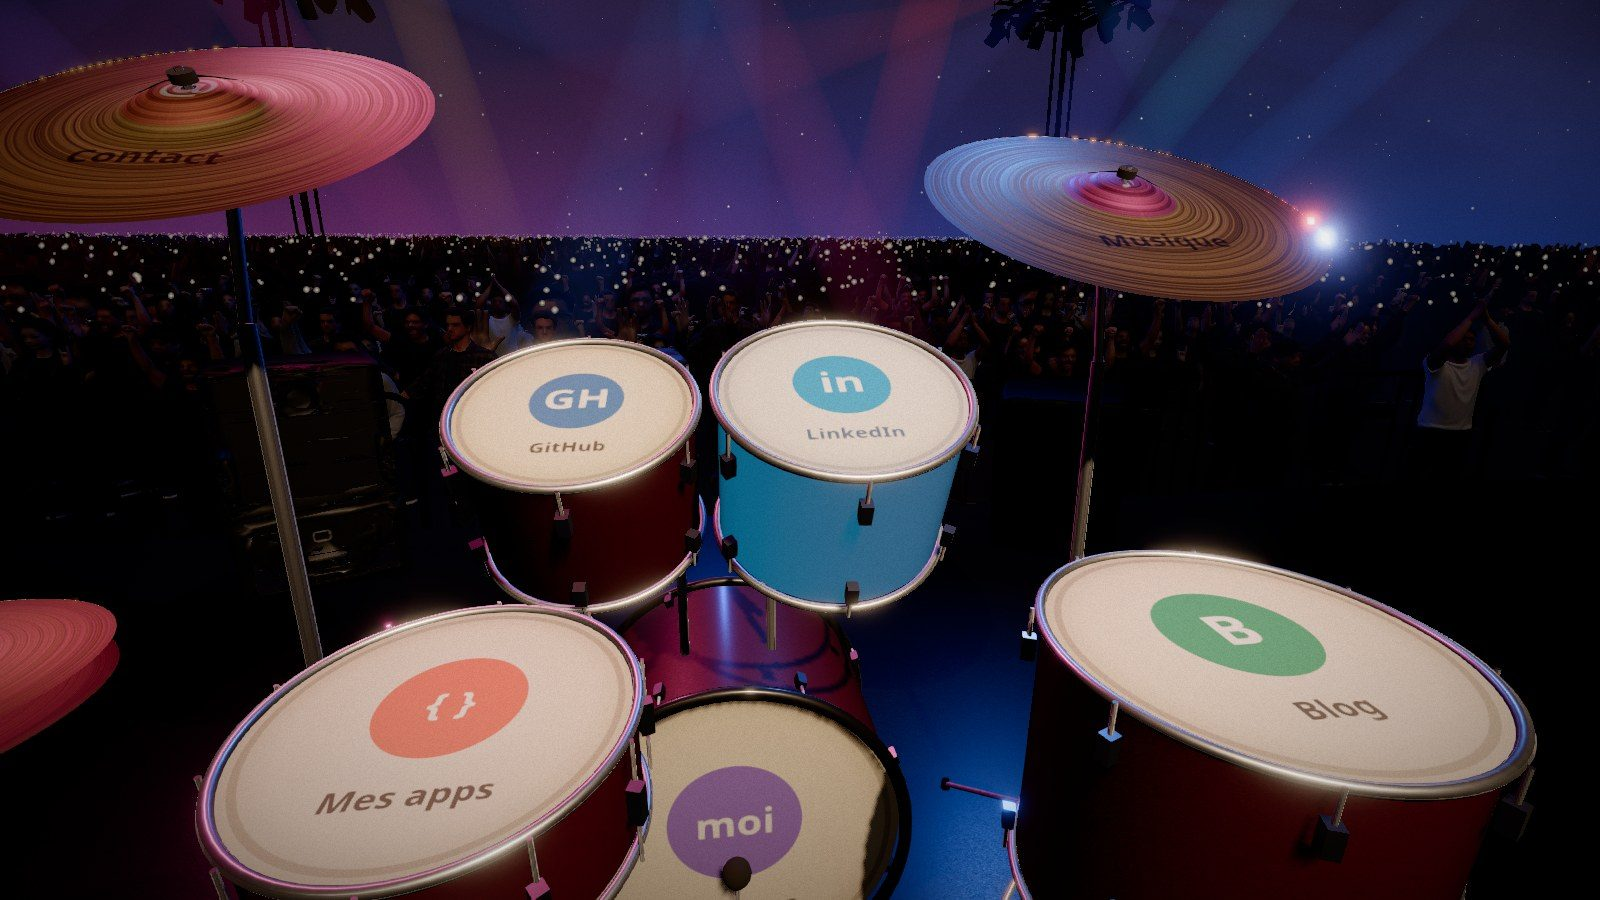
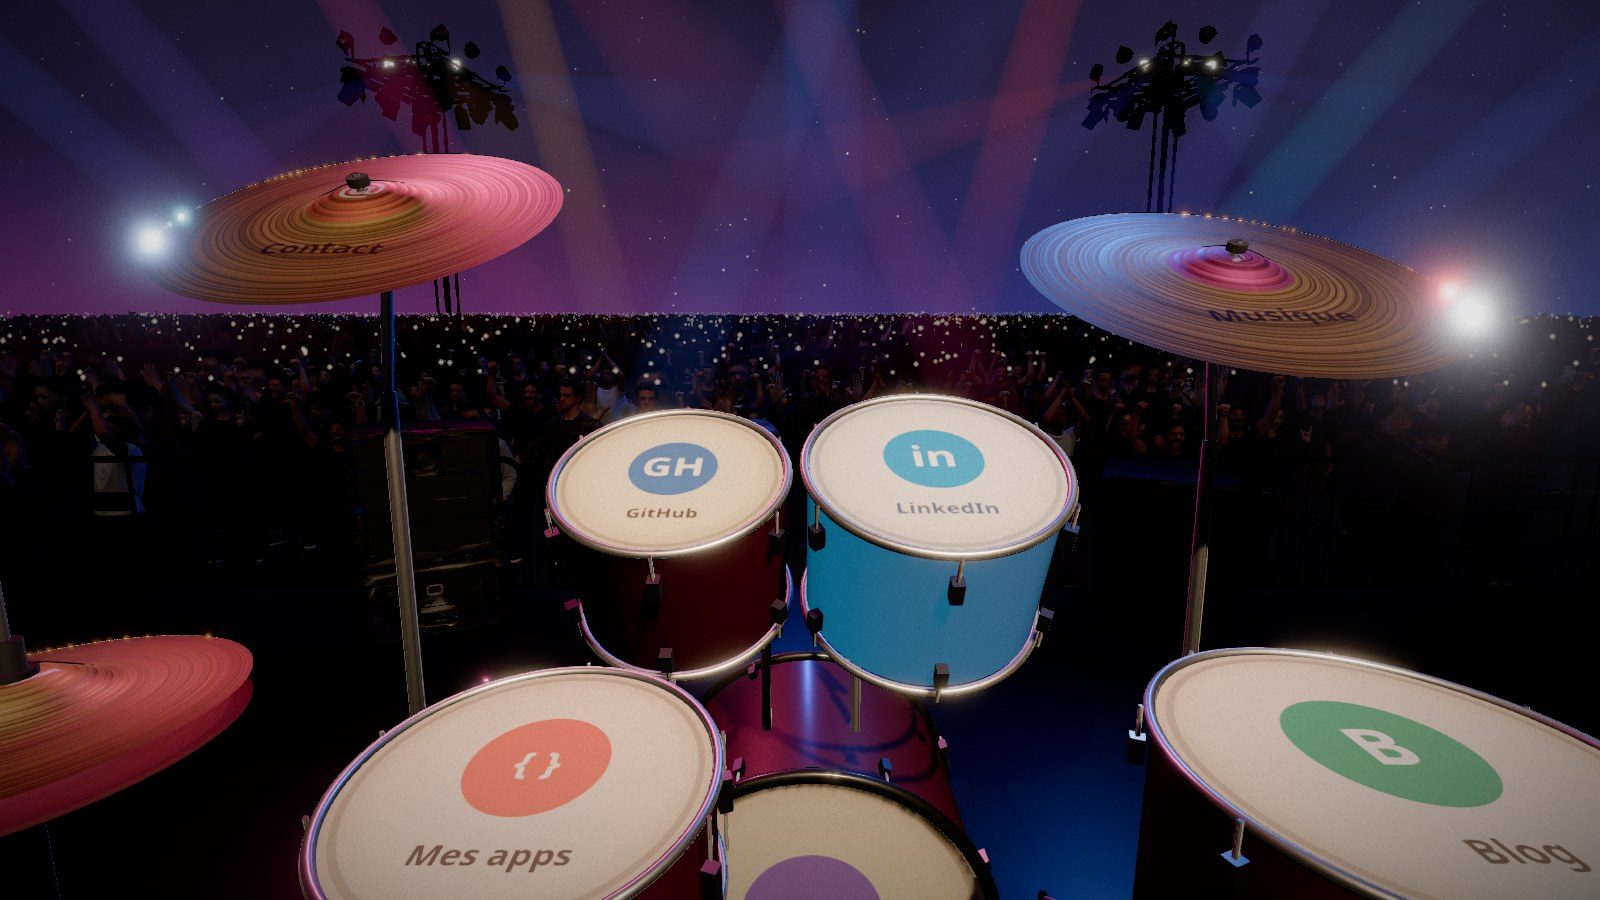
feat(a11y): Tab loops through the kit, Escape lists the destinations
Tab and Shift+Tab now cycle the eight elements without leaving the
kit, so the focus never falls off the end after the ride. Escape brings
the plain navigation up over the darkened scene (nothing is aimed
meanwhile, its links are ordinary links, a click beside them or Escape
closes it). The fallback still is re-framed between the two high toms,
slightly higher, as Corentin asked.

Claude-Session: https://claude.ai/code/session_016m5TxeA45j4KAV42qr7yoa

diff --git a/src/input/KeyboardInput.ts b/src/input/KeyboardInput.ts
@@ -7,6 +7,8 @@ export interface KeyboardHandlers {
   onBlur(): void;
   /** Enter (or a click) on the focused link: play it instead of navigating. */
   onActivate(key: KitKey): void;
+  /** Escape: open or close the plain list of destinations. */
+  onEscape(): void;
 }
 
 function isKitKey(value: string | undefined): value is KitKey {
@@ -14,24 +16,33 @@ function isKitKey(value: string | undefined): value is KitKey {
 }
 
 /**
- * The visually hidden navigation doubles as the keyboard path: Tab moves the
- * focus (and the gaze) from element to element, Enter plays the fill, Escape
- * lets go. The pointer taking over releases the focus.
+ * The visually hidden navigation doubles as the keyboard path: Tab cycles
+ * the focus (and the gaze) through the elements of the kit, wrapping around
+ * at both ends, Enter plays the fill, Escape brings up the plain list. The
+ * pointer taking over releases the focus. While the list is open, the links
+ * behave as ordinary links.
  */
 export class KeyboardInput {
+  private readonly links: HTMLAnchorElement[] = [];
   private readonly unbind: (() => void)[] = [];
+  private menuOpen = false;
 
-  constructor(root: ParentNode, handlers: KeyboardHandlers) {
+  constructor(
+    root: ParentNode,
+    private readonly handlers: KeyboardHandlers,
+  ) {
     for (const link of root.querySelectorAll<HTMLAnchorElement>('a[data-key]')) {
       const key = link.dataset.key;
       if (!isKitKey(key)) continue;
+      this.links.push(link);
       const onFocus = (): void => {
-        handlers.onFocus(key);
+        if (!this.menuOpen) handlers.onFocus(key);
       };
       const onBlur = (): void => {
-        handlers.onBlur();
+        if (!this.menuOpen) handlers.onBlur();
       };
       const onClick = (event: MouseEvent): void => {
+        if (this.menuOpen) return; // a plain link while the list is open
         event.preventDefault();
         handlers.onActivate(key);
       };
@@ -47,10 +58,20 @@ export class KeyboardInput {
     window.addEventListener('keydown', this.onKeyDown);
   }
 
+  /** While the list of destinations is open, focus and Enter mean the usual thing. */
+  setMenu(open: boolean): void {
+    this.menuOpen = open;
+  }
+
   /** Drops the focus from a destination link (the pointer took over). */
   release(): void {
     const active = document.activeElement;
     if (active instanceof HTMLAnchorElement && isKitKey(active.dataset.key)) active.blur();
+  }
+
+  /** Puts the focus on the first element of the kit. */
+  focusFirst(): void {
+    this.links[0]?.focus();
   }
 
   dispose(): void {
@@ -59,6 +80,23 @@ export class KeyboardInput {
   }
 
   private readonly onKeyDown = (event: KeyboardEvent): void => {
-    if (event.key === 'Escape') this.release();
+    if (event.key === 'Escape') {
+      event.preventDefault();
+      this.handlers.onEscape();
+      return;
+    }
+    if (event.key !== 'Tab' || this.menuOpen) return;
+    const active = document.activeElement;
+    const index = active instanceof HTMLAnchorElement ? this.links.indexOf(active) : -1;
+    // the kit is a loop: Tab past the last element lands on the first, and back
+    if (index === -1) {
+      if (this.links.length === 0) return;
+      event.preventDefault();
+      this.links[event.shiftKey ? this.links.length - 1 : 0]?.focus();
+      return;
+    }
+    event.preventDefault();
+    const next = (index + (event.shiftKey ? -1 : 1) + this.links.length) % this.links.length;
+    this.links[next]?.focus();
   };
 }

diff --git a/src/app/App.ts b/src/app/App.ts
@@ -20,7 +20,9 @@ import { type CountFrame, Sticks, type Strike } from '../scene/Sticks.ts';
 import { LightRig } from '../scene/Rig.ts';
 import { Sky } from '../scene/Sky.ts';
 import { withBase } from '../util/base.ts';
+import { mustQuery } from '../util/dom.ts';
 import type { Hud } from '../ui/Hud.ts';
+import { Menu } from '../ui/Menu.ts';
 import type { RedirectOverlay } from '../ui/RedirectOverlay.ts';
 import { readMotionPrefs } from '../util/motion.ts';
 import type { QualityProfile } from '../util/quality.ts';
@@ -64,6 +66,7 @@ export class App {
   private readonly audio = new AudioEngine();
   private readonly look: LookInput;
   private readonly keyboard: KeyboardInput;
+  private readonly menu: Menu;
   /** Element aimed through the keyboard focus, overriding the crosshair. */
   private keyboardAim: KitKey | null = null;
   private readonly raycaster = new Raycaster();
@@ -147,12 +150,18 @@ export class App {
         this.keyboardAim = key;
         this.fsm.aim(key); // the click that follows plays it
       },
+      onEscape: () => {
+        this.toggleMenu();
+      },
+    });
+    this.menu = new Menu(mustQuery(document.body, '.site-nav'), () => {
+      this.toggleMenu();
     });
     hud.setCta(pointerCta);
     hud.setHint(
       coarsePointer
         ? 'Glisse le doigt pour regarder autour de toi, touche pour jouer'
-        : 'Déplace la souris pour regarder autour de toi · Tab parcourt les fûts, Entrée joue',
+        : 'Déplace la souris pour regarder autour de toi · Tab parcourt les fûts, Entrée joue, Échap liste les liens',
     );
 
     this.fsm.subscribe(this.onStateChange);
@@ -193,6 +202,7 @@ export class App {
     window.removeEventListener('click', this.onClick);
     this.look.dispose();
     this.keyboard.dispose();
+    this.menu.dispose();
     this.renderer.dispose();
   }
 
@@ -217,6 +227,23 @@ export class App {
     }
   };
 
+  /** Escape: the plain list of destinations over the scene, and back. */
+  private toggleMenu(): void {
+    if (this.menu.isOpen) {
+      this.menu.hide();
+      this.keyboard.setMenu(false);
+      this.keyboard.release();
+      return;
+    }
+    if (!this.fsm.acceptsInput) return;
+    this.keyboard.release();
+    this.keyboardAim = null;
+    this.fsm.aim(null); // nothing is aimed while the list is up
+    this.keyboard.setMenu(true);
+    this.menu.show();
+    this.keyboard.focusFirst();
+  }
+
   /** Back on stage after a redirect that did not leave the page. */
   returnToStage(): void {
     this.fsm.reset();
@@ -233,6 +260,7 @@ export class App {
   };
 
   private readonly onClick = (): void => {
+    if (this.menu.isOpen) return;
     const { state } = this.fsm;
     if (state.name === 'idle') {
       this.countIn();
@@ -352,7 +380,7 @@ export class App {
     }
 
     this.pov.update(dt, elapsed);
-    if (this.fsm.acceptsInput) this.fsm.aim(this.aimedKey());
+    if (this.fsm.acceptsInput && !this.menu.isOpen) this.fsm.aim(this.aimedKey());
 
     const hovered = this.fsm.state.name === 'hover' ? this.fsm.state.target : null;
     this.kit.update(dt, elapsed, hovered);

diff --git a/src/ui/Menu.ts b/src/ui/Menu.ts
@@ -1,0 +1,43 @@
+/**
+ * The plain list of destinations, laid over the scene on Escape. It is the
+ * same navigation that crawlers and the fallback see; here its links behave
+ * as ordinary links.
+ */
+export class Menu {
+  private open = false;
+
+  constructor(
+    private readonly nav: HTMLElement,
+    private readonly onClose: () => void,
+  ) {
+    nav.addEventListener('click', this.onClick);
+  }
+
+  get isOpen(): boolean {
+    return this.open;
+  }
+
+  show(): void {
+    if (this.open) return;
+    this.open = true;
+    document.body.classList.add('is-menu');
+  }
+
+  hide(): void {
+    if (!this.open) return;
+    this.open = false;
+    document.body.classList.remove('is-menu');
+  }
+
+  dispose(): void {
+    this.nav.removeEventListener('click', this.onClick);
+  }
+
+  /** A click on the backdrop, not on a link, closes the list. */
+  private readonly onClick = (event: MouseEvent): void => {
+    if (!this.open) return;
+    event.stopPropagation(); // the scene must not read this as a click on a drum
+    if (event.target instanceof Element && event.target.closest('a')) return;
+    this.onClose();
+  };
+}

diff --git a/src/styles/main.css b/src/styles/main.css
@@ -240,7 +240,8 @@ body.is-fallback #stage,
 body.is-fallback .identity {
   display: none;
 }
-body.is-fallback .site-nav {
+body.is-fallback .site-nav,
+body.is-menu .site-nav {
   position: static;
   width: auto;
   height: auto;
@@ -250,6 +251,42 @@ body.is-fallback .site-nav {
   max-width: 32rem;
   margin: 0 auto;
   padding: 16vh 24px 12vh;
+}
+.menu-hint {
+  display: none;
+}
+
+/* --- Escape: the same list, over the live scene --- */
+body.is-menu .site-nav {
+  position: fixed;
+  inset: 0;
+  z-index: 30;
+  max-width: none;
+  margin: 0;
+  padding: 0;
+  overflow: auto;
+  background: linear-gradient(180deg, rgba(5, 4, 10, 0.72) 0%, rgba(5, 4, 10, 0.9) 100%);
+  cursor: default;
+}
+body.is-menu .site-nav > * {
+  max-width: 32rem;
+  margin-left: auto;
+  margin-right: auto;
+  padding-left: 24px;
+  padding-right: 24px;
+}
+body.is-menu .site-nav > h1 {
+  padding-top: 14vh;
+}
+body.is-menu .site-nav .menu-hint {
+  display: block;
+  margin-top: 36px;
+  font-size: 13px;
+  color: var(--ink-soft);
+}
+body.is-menu #hud,
+body.is-menu .identity {
+  display: none;
 }
 .fallback-3d {
   margin-top: 36px;

diff --git a/index.html b/index.html
@@ -35,6 +35,7 @@
       <p class="fallback-3d" hidden>
         <a href="?force3d">Tenter la version 3D</a>
       </p>
+      <p class="menu-hint">Échap pour revenir sur scène</p>
     </nav>
 
     <main id="stage" aria-hidden="true"></main>
